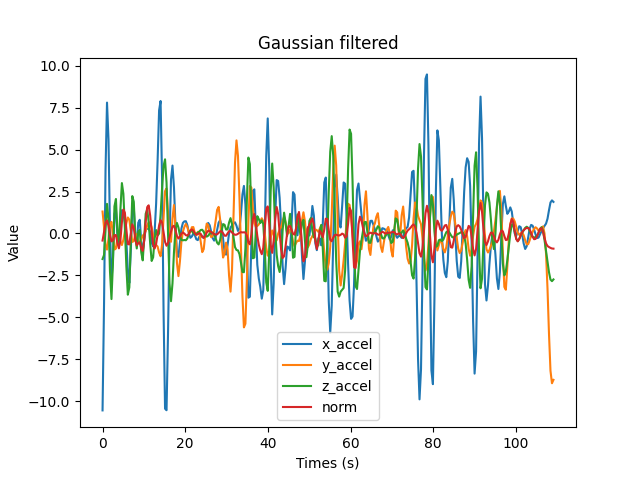
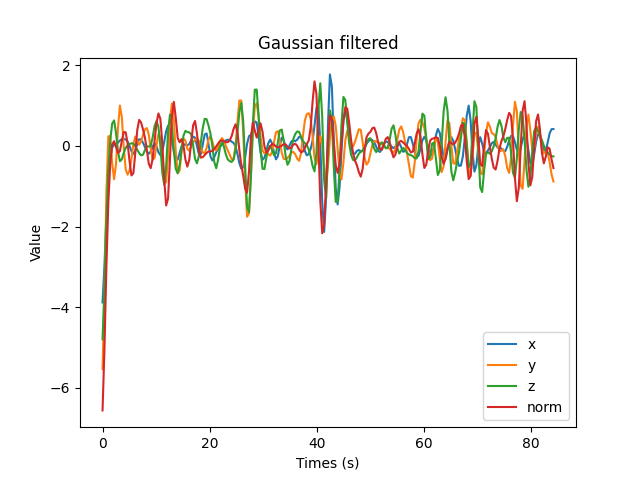
clear the main

diff --git a/main.py b/main.py
@@ -1,12 +1,10 @@
 import readingsUtils.csv_reading.txtUtils as TXT
-import matplotlib.pyplot as plt
 import mathsUtils as MATH
-from math import sqrt, pow
-import graphUtils as GRAPH
 import numpy as np
+import signalUtils as SIGNAL
 
 normalised_timestamp_acc, x_accel, y_accel, z_accel, x_gyros, y_gyros, z_gyros = TXT.reading_into_txt(
-        "data/unsegmented/S1/Recorder_2019_04_03_16_10/data.txt")
+        "data/unsegmented/S1/Recorder_2019_04_03_16_35/data.txt")
 freq = 100 # based on documentaion
 smoothing_factor = 12
 down_sampling_factor = freq // 30  # 100Hz to 30Hz
@@ -18,85 +16,21 @@ threshold_multiplier = 0.4 # if too low (<0.4), detection check shows ungesture 
 
 sigma = 2
 
-"""
-For the Recorder_2019_04_03_16_10, best config is respectively 20, 3, 0.4 and 2.
-For the Recorder_2019_04_03_16_23, best is 20, 3, 0.4, 2
-Does not work for Recorder_2019_04_03_16_35
-"""
-
 # COMPUTATION
-# Calculate the number of samples to keep
-num_samples = (len(x_accel) // smoothing_factor) * smoothing_factor
-
-# Smooth the data by taking the mean of every smoothing_factor frames
-smoothed_x_accel = np.mean(np.array(x_accel[:num_samples]).reshape(-1, smoothing_factor), axis=1)
-smoothed_y_accel = np.mean(np.array(y_accel[:num_samples]).reshape(-1, smoothing_factor), axis=1)
-smoothed_z_accel = np.mean(np.array(z_accel[:num_samples]).reshape(-1, smoothing_factor), axis=1)
-
-# Down-sample the smoothed data
-downsampled_x_accel = smoothed_x_accel[::down_sampling_factor]
-downsampled_y_accel = smoothed_y_accel[::down_sampling_factor]
-downsampled_z_accel = smoothed_z_accel[::down_sampling_factor]
-
-num_samples = (len(x_accel) // smoothing_factor) * smoothing_factor
-
-
-# Same for the gyros
-smoothed_x_gyros = np.mean(np.array(x_gyros[:num_samples]).reshape(-1, smoothing_factor), axis=1)
-smoothed_y_gyros = np.mean(np.array(y_gyros[:num_samples]).reshape(-1, smoothing_factor), axis=1)
-smoothed_z_gyros = np.mean(np.array(z_gyros[:num_samples]).reshape(-1, smoothing_factor), axis=1)
-
-downsampled_x_gyros = smoothed_x_gyros[::down_sampling_factor]
-downsampled_y_gyros = smoothed_y_gyros[::down_sampling_factor]
-downsampled_z_gyros = smoothed_z_gyros[::down_sampling_factor]
+downsampled_x_accel, downsampled_y_accel, downsampled_z_accel, num_samples = MATH.smooth_signal(x_accel, y_accel, z_accel,
+                                                                                                smoothing_factor, down_sampling_factor)
+downsampled_x_gyros, downsampled_y_gyros, downsampled_z_gyros, num_samples = MATH.smooth_signal(x_gyros, y_gyros, z_gyros,
+                                                                                                smoothing_factor, down_sampling_factor)
 
 
 # Calculate the corresponding timestamp for the downsampled data
 original_timestamp = np.linspace(0, num_samples / freq, num_samples)
 downsampled_timestamp = original_timestamp[::smoothing_factor][::down_sampling_factor]
 
-# Normalise the acceleration data
-norm = []
-for i in range(0, len(downsampled_x_accel)):
-        norm.append(sqrt(pow(downsampled_x_accel[i], 2) + pow(downsampled_y_accel[i], 2) + pow(downsampled_z_accel[i], 2)))
+SIGNAL.all_calculations(downsampled_x_accel, downsampled_y_accel, downsampled_z_accel,
+                        downsampled_timestamp, sigma, window_size,
+                        envelopp_multiplier, threshold_multiplier)
 
-norm_derivative, norm_gaussian, abs_norm, envelopp_norm, start_norm, end_norm = MATH.simple_segmentation(
-        downsampled_timestamp, norm, sigma, window_size, envelopp_multiplier, threshold_multiplier)
-#GRAPH.plot_simple_segmentation(downsampled_timestamp, norm, norm_derivative, norm_gaussian, abs_norm, envelopp_norm, start_norm, end_norm)
-xaccel_derivative, xaccel_gaussian, abs_xaccel, envelopp_xaccel, start_xaccel, end_xaccel = MATH.simple_segmentation(
-        downsampled_timestamp, downsampled_x_accel, sigma, window_size, envelopp_multiplier, threshold_multiplier)
-yaccel_derivative, yaccel_gaussian, abs_yaccel, envelopp_yaccel, start_yaccel, end_yaccel = MATH.simple_segmentation(
-        downsampled_timestamp, downsampled_y_accel, sigma, window_size, envelopp_multiplier, threshold_multiplier)
-zaccel_derivative, zaccel_gaussian, abs_zaccel, envelopp_zaccel, start_zaccel, end_zaccel = MATH.simple_segmentation(
-        downsampled_timestamp, downsampled_z_accel, sigma, window_size, envelopp_multiplier, threshold_multiplier)
-
-GRAPH.plots_data(downsampled_timestamp, 
-                   "Derivative",
-                   False,
-                   (xaccel_derivative, "xaccel_derivative"), 
-                   (yaccel_derivative, "yaccel_derivative"), 
-                   (zaccel_derivative, "zaccel_derivative"), 
-                   (norm_derivative, "norm_derivative"))
-
-GRAPH.plots_data(downsampled_timestamp,
-                 "Gaussian filtered",
-                 False,
-                 (xaccel_gaussian, "x_accel"),
-                 (yaccel_gaussian, "y_accel"),
-                 (zaccel_gaussian, "z_accel"),
-                 (norm_gaussian, "norm"))
-
-plt.subplot(4,1,1)
-GRAPH.plots_data(downsampled_timestamp, "X accel", True, (abs_xaccel, "abs_accel"), (envelopp_xaccel, "envelopp"))
-plt.subplot(4,1,2)
-GRAPH.plots_data(downsampled_timestamp, "Y accel", True, (abs_yaccel, "abs_accel"), (envelopp_yaccel, "envelopp"))
-plt.subplot(4,1,3)
-GRAPH.plots_data(downsampled_timestamp, "Z accel", True, (abs_zaccel, "abs_accel"), (envelopp_zaccel, "envelopp"))
-plt.subplot(4,1,4)
-GRAPH.plots_data(downsampled_timestamp, "Norm accel", False, (abs_norm, "abs_accel"), (envelopp_norm, "envelopp"))
-
-
-GRAPH.plots_rectangles([ (xaccel_gaussian, "x_accel"), (yaccel_gaussian, "y_accel"), (zaccel_gaussian, "z_accel"), (norm_gaussian, "norm_accel") ],
-                        [start_xaccel,start_yaccel, start_zaccel, start_norm],
-                          [end_xaccel, end_yaccel, end_zaccel, end_norm],
-                          False)
+SIGNAL.all_calculations(downsampled_x_gyros, downsampled_y_gyros, downsampled_z_gyros,
+                        downsampled_timestamp, sigma, window_size,
+                        envelopp_multiplier, threshold_multiplier)

diff --git a/signalUtils.py b/signalUtils.py
@@ -1,0 +1,50 @@
+import graphUtils as GRAPH
+from math import sqrt
+import mathsUtils as MATH
+import matplotlib.pyplot as plt
+
+def all_calculations(downsampled_x_accel, downsampled_y_accel, downsampled_z_accel, downsampled_timestamp, sigma, window_size, envelopp_multiplier, threshold_multiplier):
+    # Normalise the acceleration data
+    norm = []
+    for i in range(0, len(downsampled_x_accel)):
+            norm.append(sqrt(pow(downsampled_x_accel[i], 2) + pow(downsampled_y_accel[i], 2) + pow(downsampled_z_accel[i], 2)))
+
+    norm_derivative, norm_gaussian, abs_norm, envelopp_norm, start_norm, end_norm = MATH.simple_segmentation(
+            downsampled_timestamp, norm, sigma, window_size, envelopp_multiplier, threshold_multiplier)
+    xaccel_derivative, xaccel_gaussian, abs_xaccel, envelopp_xaccel, start_xaccel, end_xaccel = MATH.simple_segmentation(
+            downsampled_timestamp, downsampled_x_accel, sigma, window_size, envelopp_multiplier, threshold_multiplier)
+    yaccel_derivative, yaccel_gaussian, abs_yaccel, envelopp_yaccel, start_yaccel, end_yaccel = MATH.simple_segmentation(
+            downsampled_timestamp, downsampled_y_accel, sigma, window_size, envelopp_multiplier, threshold_multiplier)
+    zaccel_derivative, zaccel_gaussian, abs_zaccel, envelopp_zaccel, start_zaccel, end_zaccel = MATH.simple_segmentation(
+            downsampled_timestamp, downsampled_z_accel, sigma, window_size, envelopp_multiplier, threshold_multiplier)
+
+    GRAPH.plots_data(downsampled_timestamp, 
+                    "Derivative",
+                    False,
+                    (xaccel_derivative, "x"), 
+                    (yaccel_derivative, "y"), 
+                    (zaccel_derivative, "z"), 
+                    (norm_derivative, "norm"))
+
+    GRAPH.plots_data(downsampled_timestamp,
+                    "Gaussian filtered",
+                    False,
+                    (xaccel_gaussian, "x"),
+                    (yaccel_gaussian, "y"),
+                    (zaccel_gaussian, "z"),
+                    (norm_gaussian, "norm"))
+
+    plt.subplot(4,1,1)
+    GRAPH.plots_data(downsampled_timestamp, "X", True, (abs_xaccel, "abs"), (envelopp_xaccel, "envelopp"))
+    plt.subplot(4,1,2)
+    GRAPH.plots_data(downsampled_timestamp, "Y", True, (abs_yaccel, "abs"), (envelopp_yaccel, "envelopp"))
+    plt.subplot(4,1,3)
+    GRAPH.plots_data(downsampled_timestamp, "Z", True, (abs_zaccel, "abs"), (envelopp_zaccel, "envelopp"))
+    plt.subplot(4,1,4)
+    GRAPH.plots_data(downsampled_timestamp, "Norm", False, (abs_norm, "abs"), (envelopp_norm, "envelopp"))
+
+
+    GRAPH.plots_rectangles([ (xaccel_gaussian, "x"), (yaccel_gaussian, "y"), (zaccel_gaussian, "z"), (norm_gaussian, "norm") ],
+                            [start_xaccel,start_yaccel, start_zaccel, start_norm],
+                            [end_xaccel, end_yaccel, end_zaccel, end_norm],
+                            False)

diff --git a/mathsUtils.py b/mathsUtils.py
@@ -75,3 +75,18 @@ def simple_segmentation(downsampled_timestamp, signal, sigma, window_size, envel
         start_output.append(start)
         end_output.append(end)
     return signal_derivative, norm_gaussian, abs_signal, envelopp, start_output, end_output
+
+def smooth_signal(x_accel, y_accel, z_accel, smoothing_factor, down_sampling_factor):
+    num_samples = (len(x_accel) // smoothing_factor) * smoothing_factor
+
+    # Smooth the data by taking the mean of every smoothing_factor frames
+    smoothed_x_accel = np.mean(np.array(x_accel[:num_samples]).reshape(-1, smoothing_factor), axis=1)
+    smoothed_y_accel = np.mean(np.array(y_accel[:num_samples]).reshape(-1, smoothing_factor), axis=1)
+    smoothed_z_accel = np.mean(np.array(z_accel[:num_samples]).reshape(-1, smoothing_factor), axis=1)
+
+    # Down-sample the smoothed data
+    downsampled_x_accel = smoothed_x_accel[::down_sampling_factor]
+    downsampled_y_accel = smoothed_y_accel[::down_sampling_factor]
+    downsampled_z_accel = smoothed_z_accel[::down_sampling_factor]
+
+    return downsampled_x_accel, downsampled_y_accel, downsampled_z_accel, num_samples

diff --git a/graphUtils.py b/graphUtils.py
@@ -27,14 +27,14 @@ def plot_simple_segmentation(downsampled_timestamp, signal, signal_derivative, n
     
     plt.figure()
     plots_data(downsampled_timestamp, 
-               "Normalised acceleration data [sqrt(x+y+z)]",
+               "Normalised data [sqrt(x+y+z)]",
                False,
-               "Normalised_acceleration_data",
+               "Normalised_data",
                (signal, "signal"))
 
     plt.figure()    
     plots_data(downsampled_timestamp, 
-               "Derivative of the acceleration",
+               "Derivative",
                False,
                "Derivative",
                (signal_derivative, "derivative"))
